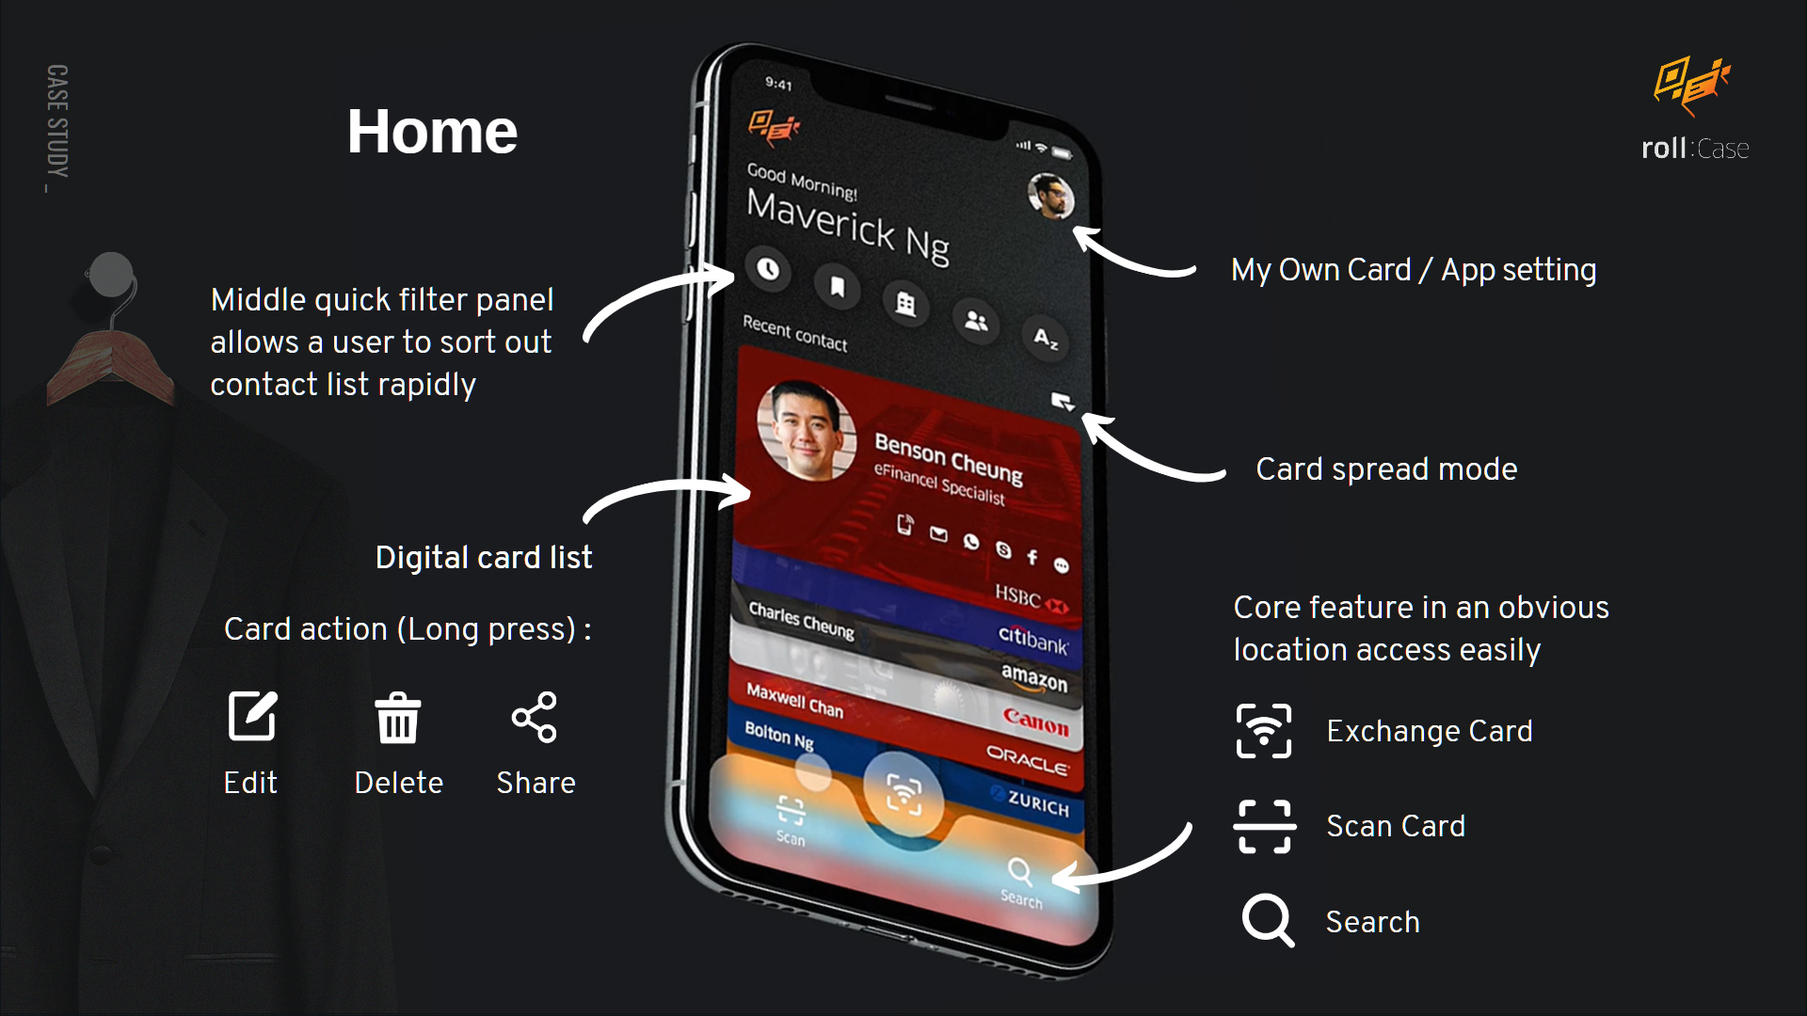
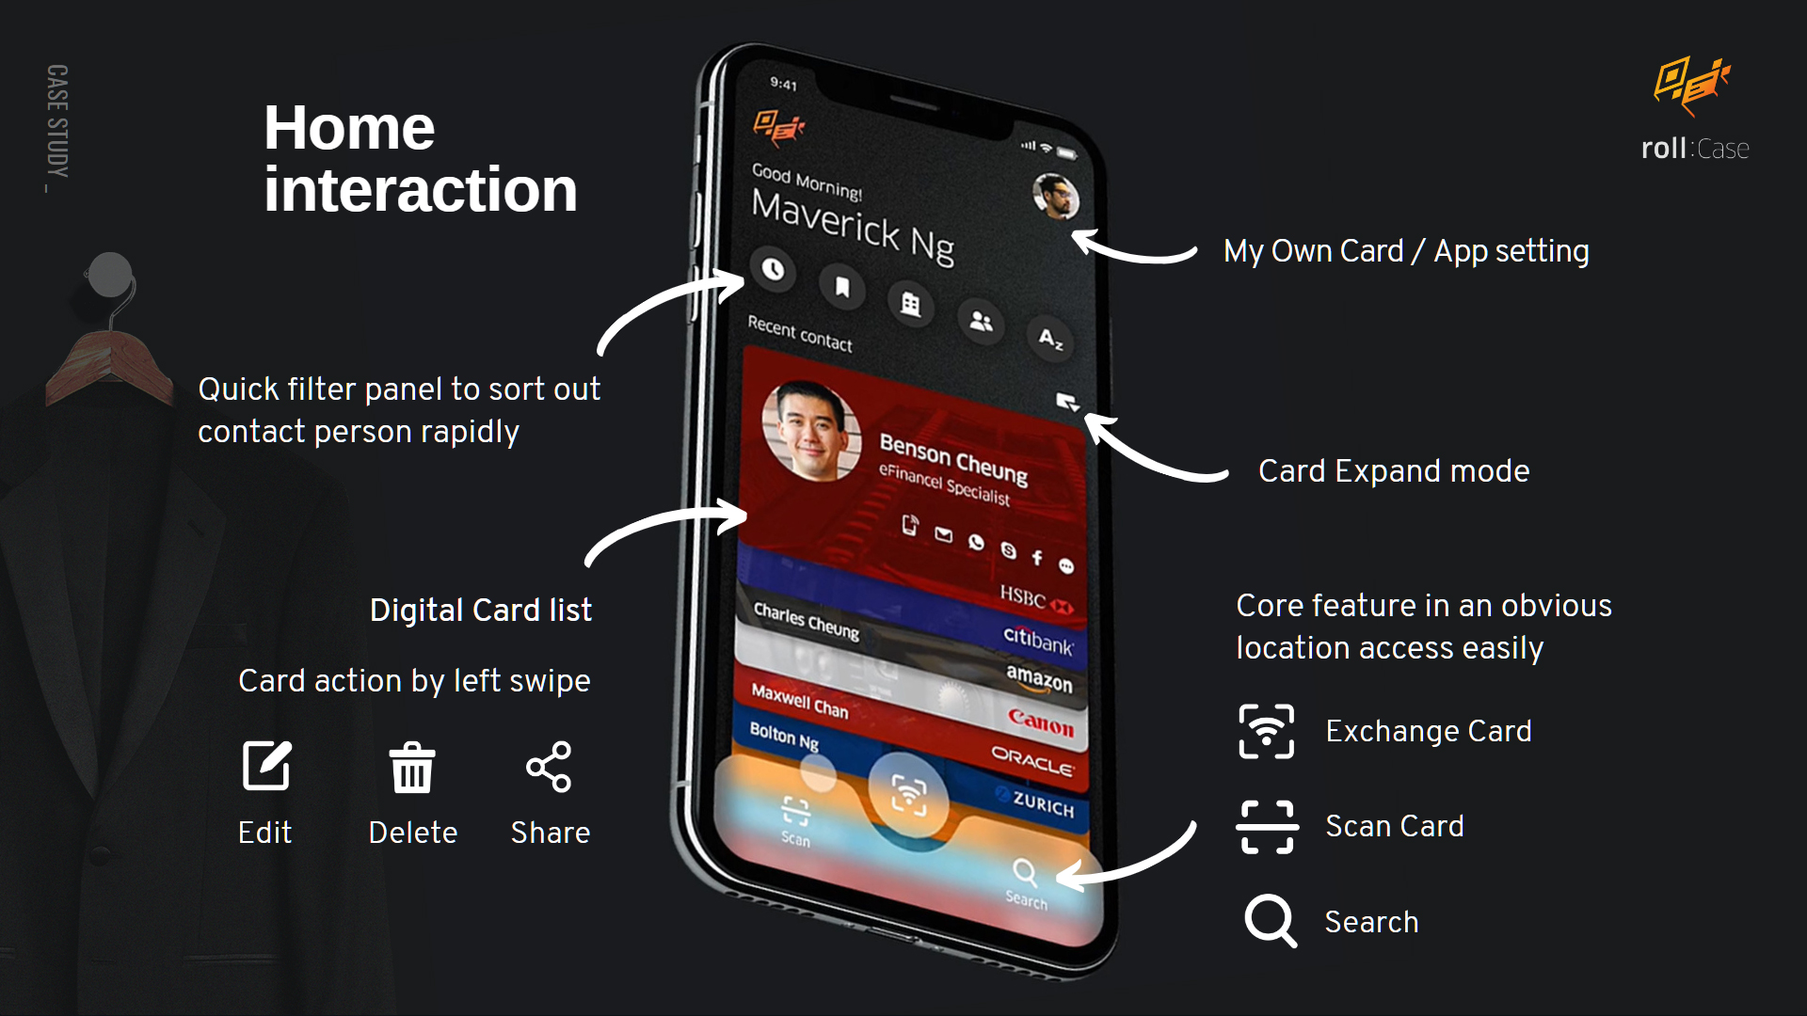
1110_01

diff --git a/project/rollcase.html b/project/rollcase.html
@@ -400,7 +400,7 @@
 
         <p class="observable body spacing-sub-title">Aim to visually-fouced flow that helps for lessening users cognitive load and reduce time gap between step flow. To do so, the users can focus on their tasks completion intuitively. It also helps to heightens the motivation of both user types so that fits real-life usage.</p>
 
-        <p class="observable body spacing-medium">With light-hearted and concise headline in each step that able to lead them for further action decsion easily  (e.g. "What's my info", "Pick the Card Template Your Love" rather than "Import info etc), so that to eliminates stress with user who feels “Order to do to so”.</p>
+        <p class="observable body spacing-medium">With light-hearted and concise headline in each step that able to lead them for further action decsion easily.  (e.g. "Pick the Card Template Your Love" rather than "Select Template etc) so that to eliminates stress with user who feels “Order to do to so”.</p>
     </div>
 
 
@@ -559,7 +559,7 @@
       <p class="observable h2 spacing-sub-title">Implementating the <span class="txtpoint rollcase-color">Solution</span></p>
       <p class="observable h2 spacing-title"></p>
       <p class="observable h1 spacing-title">Prototypes</p>
-      <p class="observable body spacing-large">The primary advantage of roll:case lies in its convenience and actionable. During to few rounds iterating driven by revision and A/B testing to figure out which is effective with user. Final Hi-Fi prototype is more straightforward would be boost the entire users experience.</p>
+      <p class="observable body spacing-medium">The primary advantage of roll:case lies in its convenience and actionable. During to few rounds iterating driven by revision and A/B testing to figure out which is effective with user. Final Hi-Fi prototype is more straightforward would be boost the entire users experience.</p>
     </div>
 
     <div class="copy-width spacing-small">
@@ -583,13 +583,17 @@
     <div class="copy-width spacing-medium">
       <p class="observable h1 spacing-sub-title">Home Interaction</p>
 
-      <p class="observable body spacing-sub-title">The Home designed as "Digital Cardcase" where show users which of the current digital card status more intuitively. With vertical scrolling emotional experience on the screen, that given users feels "Real" motion same as cardcase. Fixed at the bottom of the core feature button in an obvious location can enable the user to perform the task at hand with ease by one hand. In Card Expand mode, make the call with one tap without having to open the card were not have to look up or waste their time. <span class="material-icons" style="font-size:15px; top: 2px; padding-right: 2px; padding-left: 2px;">open_in_new</span> <a class="image-popup-fit-width underlined" title="Click on image to enlarge/reduce it"  href="../images/projects/rollcase/call.gif">Detail</a></p>
+      <p class="observable body spacing-sub-title">The Home designed as "Digital Cardcase" where show users which of the current digital card status more intuitively. With vertical scrolling that given users feels "Finding" motion like physical cardcase. Fixed at the bottom of the core feature button in an obvious location can enable the user to perform the task at hand with ease by one hand.</p>
 
-      <p class="observable body spacing-medium">By default, the lastest card is top of list. Tapping on middle filter panel allows a user to sort out contact list rapidly, such as recent contact, favorites, company and A-Z sorting. Swiping card it will open a side sheet that manage action lets user edit, delete and share. <span class="material-icons" style="font-size:15px; top: 2px; padding-right: 2px; padding-left: 2px;">open_in_new</span> <a class="image-popup-fit-width underlined" title="Click on image to enlarge/reduce it"  href="../images/projects/rollcase/home.jpg">Detail</a><!--Bottom feature bar designs as frosted glass effect that incorporating card and dynamic visuals. The card are still blurred behind another when user scrolling more catchy. help users to more easily onward journey.--></p>
+      <p class="observable body spacing-sub-title">By default, the recent contact card is top of list. Tapping on middle filter panel allows a user to sort out contact person rapidly, such as recent contact, favorites, company and A-Z sort order. By left swiping card, it will open a side sheet that manage action lets user edit, delete and share. <span class="material-icons" style="font-size:15px; top: 2px; padding-right: 2px; padding-left: 2px;">open_in_new</span> <a class="image-popup-fit-width underlined" title="Click on image to enlarge/reduce it"  href="../images/projects/rollcase/home.jpg">Detail</a><!--Bottom feature bar designs as frosted glass effect that incorporating card and dynamic visuals. The card are still blurred behind another when user scrolling more catchy. help users to more easily onward journey.--></p>
+
+
+      <p class="observable body spacing-medium">Tapping on "Card Expand" button that make the call rapidly with one tap without having to open the card were not have to look up or waste their time. <span class="material-icons" style="font-size:15px; top: 2px; padding-right: 2px; padding-left: 2px;">open_in_new</span> <a class="image-popup-fit-width underlined" title="Click on image to enlarge/reduce it"  href="../images/projects/rollcase/call.gif">Detail</a></p>
+
 
       <p class="observable h1 spacing-sub-title">Digital card detail</p>
 
-      <p class="observable body spacing-small">Tapping on a card to enter "Card Detail" screen. Swiping left the button make a phone call directly. Plus, I created new features that inspire by the iterating, in which allow user to add the person in the relationship list. Let user follow up easily with thier personal network each other if they have a business connection. <span class="material-icons" style="font-size:15px; top: 2px; padding-right: 2px; padding-left: 2px;">open_in_new</span> <a class="image-popup-fit-width underlined" title="Click on image to enlarge/reduce it"  href="../images/projects/rollcase/carddetail.png">Detail</a></p>
+      <p class="observable body spacing-small">In "Card Detail" screen, Swiping left the phone button (Mobile or Office) make a call directly. With a various contact access button based on whatever the user was imported: Website. eMail, What'sApp, Facebook etc. Plus, Allow user to add person in the relationship list in which maintain easily with thier personal network each other if they have a business connection. <span class="material-icons" style="font-size:15px; top: 2px; padding-right: 2px; padding-left: 2px;">open_in_new</span> <a class="image-popup-fit-width underlined" title="Click on image to enlarge/reduce it"  href="../images/projects/rollcase/carddetail.jpg">Detail</a></p>
 
     </div>
 
@@ -600,8 +604,8 @@
 
 
     <div class="copy-width spacing-large">
-      <p class="observable h1 spacing-sub-title">Card Search</p>
-      <p class="observable body spacing-medium">This search screen shows logging searches, such as recent contact person and history searches tag. Tap on mid filters bar help users narrow down their results with predefined categories. Make it easier to reach out to find person they contact for. <span class="material-icons" style="font-size:15px; top: 2px; padding-right: 2px; padding-left: 2px;">open_in_new</span> <a class="image-popup-fit-width underlined" title="Click on image to enlarge/reduce it"  href="../images/projects/rollcase/search.png">Detail</a></p>
+      <p class="observable h1 spacing-sub-title">Contact card search</p>
+      <p class="observable body spacing-medium">In Search screen, shows logging searches, recent contact person and history searches tag. Tap on mid filters bar help users narrow down their results with predefined categories. Make it easier to reach out to find person they contact for. <span class="material-icons" style="font-size:15px; top: 2px; padding-right: 2px; padding-left: 2px;">open_in_new</span> <a class="image-popup-fit-width underlined" title="Click on image to enlarge/reduce it"  href="../images/projects/rollcase/search.jpg">Detail</a></p>
 
       <!--<p class="observable body spacing-large">impotant! NEED Demo add -> Provide textual prompts when input keywoards that offers you the options as soon as you are inputting query. Use filters to tune search aside from the history options.</p>--> 
     </div>
@@ -612,34 +616,48 @@
       <video width="100%" title="Click on image to play/paused" playsinline muted loop onclick="if (typeof InstallTrigger == 'undefined') (this.paused ? this.play() : this.pause());"/><source src="../images/projects/rollcase/createowncard_ok.mp4" type="video/mp4"></video>
     </div>
 
-    <div class="copy-width spacing-large">
+    <div class="copy-width spacing-small">
       <p class="observable h1 spacing-sub-title">Own Card Creation</p>
-      <p class="observable body spacing-medium">One of design goal was completion task make it easily. Across entire the app which provides a much visual element and icons that guiding how to perform of the flow smoothly, and reduce time-on-task to avoid cognitive overload.</p>
+      <p class="observable body spacing-small">One of design goal was completion task make it easily. Across entire the app which provides a much visual element and icons that guiding how to perform of the flow smoothly, and reduce time-on-task to avoid cognitive overload. With stress-free headline ("What's my info" rather than "Import contact info" etc) that easily digest the message of the step rather than “Order to do to so".</p>
 
-      <p class="observable h6 spacing-title">How it works</p>
-      <p class="observable body spacing-sub-title">Tap on a headshot at Home, they are taken to the "My card case" screen which is hub of own card. The create own card process where 3 mode available to:</p>
+    </div>
+
+
+    <div class="copy-width spacing-copy">
+      <p class="observable body h6 spacing-title">How it works</p>
+
+      <p class="observable body spacing-title">In "My card case" screen which is hub of own card. The create own card process where 3 mode available to:</p>
 
       <p class="observable body spacing-medium">1. Start all over - Step-by-step card creation
       <br>2. Corporate - Access from Cloud Storage
-      <br>3. Scan card - paper card data extraction by OCR scanner</p>
+      <br>3. Scan card - Paper card data extraction by OCR scanner</p>
+
 
       <p class="observable body h6 spacing-title">Start all over</p>
-      <p class="observable body spacing-small"><i>STEP 1 :</i><br>Upon this demo, Contact Info where available via address book, mail and vCard format synchronize through thier phone so that prevent manual import errors. About the head icon, this is optional add or not if needed. <span class="material-icons" style="font-size:15px; top: 2px; padding-right: 2px; padding-left: 2px;">open_in_new</span> <a class="image-popup-fit-width underlined" title="Click on image to enlarge/reduce it"  href="../images/projects/rollcase/create_step_01.png">Detail</a></p>
+      <p class="observable body spacing-small"><i>STEP 1 :</i><br>Upon this demo, Contact Info where available via address book, mail and vCard format synchronize through thier phone so that prevent manual import errors. About the head icon, this is optional add or not if needed. <span class="material-icons" style="font-size:15px; top: 2px; padding-right: 2px; padding-left: 2px;">open_in_new</span> <a class="image-popup-fit-width underlined" title="Click on image to enlarge/reduce it"  href="../images/projects/rollcase/create_step_01.jpg">Detail</a></p>
 
-      <p class="observable body spacing-copy"><i>STEP 2 :</i><br>Digital card visual creation is divided to 2 option: <span class="material-icons" style="font-size:15px; top: 2px; padding-right: 2px; padding-left: 2px;">open_in_new</span> <a class="image-popup-fit-width underlined" title="Click on image to enlarge/reduce it"  href="../images/projects/rollcase/create_step_02.png">Detail</a></p>
+      <p class="observable body spacing-sub-title"><i>STEP 2 :</i><br>Digital card visual creation was divided to 2 option : <!--<span class="material-icons" style="font-size:15px; top: 2px; padding-right: 2px; padding-left: 2px;">open_in_new</span> <a class="image-popup-fit-width underlined" title="Click on image to enlarge/reduce it"  href="../images/projects/rollcase/create_step_02.jpg">Detail</a>--></p>
+    </div>
 
-
-      <div class="copy-width-col-copy-lr observable">
+     <!-- <div class="copy-width copy-width-col-copy-lr observable">
         <div class="copy-width-col-copy-l-half">
-          <p class="observable spacing-copy">1. Ready-made Template -<br>Auto generated based on whatever the user has imported that help to streamline the entire process</p>
+          <p class="observable spacing-copy">Ready-made template selector :<br>Auto generated based on whatever the user has imported that help to streamline the entire process</p>
         </div>
         <div class="copy-width-col-copy-r-half">
-          <p class="observable spacing-copy">2. Customize -<br>Allow users customize digital card visual such as logo and background with tools, cropping and color overlay etc</p>
+          <p class="observable spacing-small">Card Customize :<br>Create card element and layout themselves, such as logo, background, and color etc by editing tools bundled</p>
         </div>
       </div>
+    -->
+
+    <div class="copy-width spacing-small">
+      <p class="observable body h6 spacing-title">#1 Ready-made template selector</p>
+      <p class="observable body spacing-sub-title">Auto generated based on whatever the user has imported that help to streamline the entire process. With flexible option where available for user adjust <span class="material-icons" style="font-size:15px; top: 2px; padding-right: 2px; padding-left: 2px;">open_in_new</span> <a class="image-popup-fit-width underlined" title="Click on image to enlarge/reduce it"  href="../images/projects/rollcase/visual_template.jpg">Detail</a></p>
+    </div>
 
 
-      <p class="observable body spacing-sub-title">Advance Setting :<br>As a flexible option where available for user adjust the card detail what info displaying on, such as layout, font style etc. Within as the user adjust their digital card, the outcome will be change in preview instanly.</p>
+    <div class="copy-width spacing-large">
+      <p class="observable body h6 spacing-title">#2 Card Customize</p>
+      <p class="observable body spacing-sub-title">Create card element and layout themselves, such as logo, background, and color etc by editing tools bundled. Available for user adjust the card detail what info displaying on, such as layout, font style etc. Within as the user adjust their digital card, the outcome will be change in preview instanly.</p>
 
       <p class="observable body spacing-medium">Also, with enable "Set as corporate template", just one time created which cloud base storage, where share with workmate or teams. Allow user reuse card template content to standardize with thier brand guideline avoid wasting time duplicating efforts. <span class="material-icons" style="font-size:15px; top: 2px; padding-right: 2px; padding-left: 2px;">open_in_new</span> <a class="image-popup-fit-width underlined" title="Click on image to enlarge/reduce it"  href="../images/projects/rollcase/create_step_03.png">Detail</a></p>
     </div>

diff --git a/project/jy_reader.html b/project/jy_reader.html
@@ -337,8 +337,7 @@
       <p class="observable body spacing-small">Jin Yong's novels is a text-heavy fiction. Novel readers would not be rush to reading, because it isn't online article or news. Typically, Mobile not suitable for long-form novel reads. Would not solve the problem even users enlarge font size because mobile screen size was fixed, only causing more scrolling frequently.</p>
 
       <p class="observable body spacing-copy"><b>INSIGHTS :</b></p>
-      <p class="observable body spacing-sub-title">Tablet landscape screen almost same as hard-copy size that well-adapted Z-pattern for human reading. Across those interviewed, they preferred to reading novels with hard-copy and kindle at most, and would like to stay home reading, it keep maintain motivation during long period reading. That’s why tablet trend to student reading. Of course, that could be loss mobile user base engaging.</p>  <!--But there’s no such thing as a perfect App or Devices. hats why tablet trend to use for student learning-->
-      <p class="observable body spacing-title">Below are the point that supports the "Tablet-first" assumptions i analysed :</p>
+      <p class="observable body spacing-sub-title">Tablet landscape screen almost same as hard-copy size that well-adapted Z-pattern for human reading. Across those interviewed, they preferred to reading novels with hard-copy and kindle at most, and would like to stay home reading, it keep maintain motivation during long period reading. That’s why tablet trend to student reading. Of course, that could be loss mobile user base engaging. Below are the point that supports the "Tablet-first" assumptions i analysed :</p>  <!--But there’s no such thing as a perfect App or Devices. hats why tablet trend to use for student learning-->
     </div>
 
     <div class="copy-width spacing-copy">
@@ -380,13 +379,13 @@
 
 
 
-    <div class="copy-width spacing-medium">
+    <div class="copy-width spacing-large">
       <p class="observable h1 spacing-small">Hypothesis Statement</p>
-      <p class="observable body spacing-small statement jy-color"><span class="txtpoint">"We believe that if we provide more informative of reading status which helps to easy to make time for long period reading efficiency. Despite mobile usage widely, reading on a tablet is just as comfortable as reading a printed version novel.</span> <span style="color: #bbb;"> [<i>Solution </i>]</span></p>
+      <p class="observable body spacing-small statement jy-color"><span class="txtpoint">"We believe that if we provide more informative of reading status which helps to easy to make time for long period reading efficiency. Despite mobile usage widely, reading on a tablet is just as comfortable as reading a printed version novel.</span> <span style="color: #bbb;"> [<i> Solution </i>]</span></p>
 
-      <p class="observable body spacing-small statement jy-color"><span class="txtpoint">Will achieve overall Customer Satisfaction (CSAT) metrics by 50% </span> <span style="color: #bbb;"> [<i>Success metrics </i>]</span></p>
+      <p class="observable body spacing-small statement jy-color"><span class="txtpoint">Will achieve overall Customer Satisfaction (CSAT) metrics by 50% </span> <span style="color: #bbb;"> [ <i>Success metrics </i>]</span></p>
 
-      <p class="observable body spacing-medium statement jy-color"><span class="txtpoint">This is because novels reader tend to know detail info before actually reads. It is crucial to make audience comfortable and fluently when reading on wide screen, and especially a ton of words novels.” </span><span style="color: #bbb;"> [<i>Evidences </i>]</p>
+      <p class="observable body spacing-medium statement jy-color"><span class="txtpoint">This is because novels reader tend to know detail info before actually reads. It is crucial to make audience comfortable and fluently when reading on wide screen, and especially a ton of words novels.” </span><span style="color: #bbb;"> [<i> Evidences </i>]</p>
 
       <!--Learn hypothesis method: https://about.gitlab.com/handbook/engineering/ux/ux-research-training/write-strong-hypothesis/ -->
     </div>
@@ -533,10 +532,10 @@
     <div class="spacing-large" data-scroll-target="true"></div>
 
 
-    <div class="copy-width spacing-large">
+    <div class="copy-width spacing-medium">
       <p class="observable h2 spacing-sub-title">Implementating the <span class="txtpoint jy-color">Solution</span></p>
       <p class="observable h1 spacing-title">Prototypes</p>
-      <p class="observable body spacing-medium">The design solution is that it connect directly to the Jin-Yong's audiences, I ran few rounds with 2 participants (who same people interviewed) of user testings. Several usability issue revises are made accordingly that would result in smoothly reading. Here are final prototyping how I tried achieving the goals set above through this solution.</p>
+      <p class="observable body spacing-small">The design solution is that it connect directly to the Jin-Yong's audiences, I ran few rounds with 2 participants (who same people interviewed) of user testings. Several usability issue revises are made accordingly that would result in smoothly reading. Here are final prototyping how I tried achieving the goals set above through this solution.</p>
     </div>
 
     <div class="copy-width spacing-small">

diff --git a/rollcase_case_study.html b/rollcase_case_study.html
@@ -573,17 +573,19 @@ body, .body {
 
         <p class=" body spacing-small">第1個Demo 展示番Home page, 基本操作。 <!--係自己個Card list揾卡片, 然後打電話比 聯繫人嘅操作。--> </p>
 
-        <p class=" body spacing-small">係Home 設計做 “數字卡片盒”，係App嘅核心頁面, 直觀向Users顯示當前卡片。 可以垂直Scroll 揾卡片，好似實體卡片盒相同嘅動作。 核心功能嘅Button底部位置，可以比Users單手 快速執行佢地嘅任務。</p>
+        <p class=" body spacing-small">係Home page係App嘅核心頁面, 設計做 “數字卡片盒” concept， 顯示Users當前卡片。 垂直Scroll 揾卡片，好似實體卡片盒相同嘅動作。 核心功能嘅Button 全部放底部位置，可以比Users 單手快速執行佢地嘅任務。</p>
 
         <p class=" body spacing-small">可以睇下Demo先........... (Demo解說時: Play and Pause PowerPoint Prototype)</p>
 
-        <p class=" body spacing-small">Portfilio Website 裡面嘅 Detail button 係同PowerPoint同一頁Slide, 係描述個UI。</p>
-
+        <!--<p class=" body spacing-small">......Portfilio Website 裡面嘅 Detail button 係同PowerPoint同一頁Slide, 係描述個UI。</p>-->
 
         <p class=" body h1 spacing-copy">Demo解說:</p>
 
-
         <p class=" body spacing-small">UI部份, 右上角Users Head icon係放自已嘅卡片Page, 同有闗個App嘅Setting, 中間係Card list, <!--好似1個 “卡片盒” 嘅Design,--> , 所有核心功能係底部, 中間係Exchange交換卡片 Button, 左邊係 Scan卡片Button, 右邊係 Search聯繫人Button。 </p>
+
+        <p class=" body spacing-medium">下一頁 Slide.....</p>
+
+
 
         <p class=" body spacing-small">By default, 最新卡片係Card list頂部。 中間有 Filter, 可以比User 快速Sort 聯繫人揾卡片，例如最近嘅聯繫人、 公司、 名稱排序A to Z等等。 另外, 長按卡片, 可以編輯、 刪除 同埋Share卡片。 </p>
 
